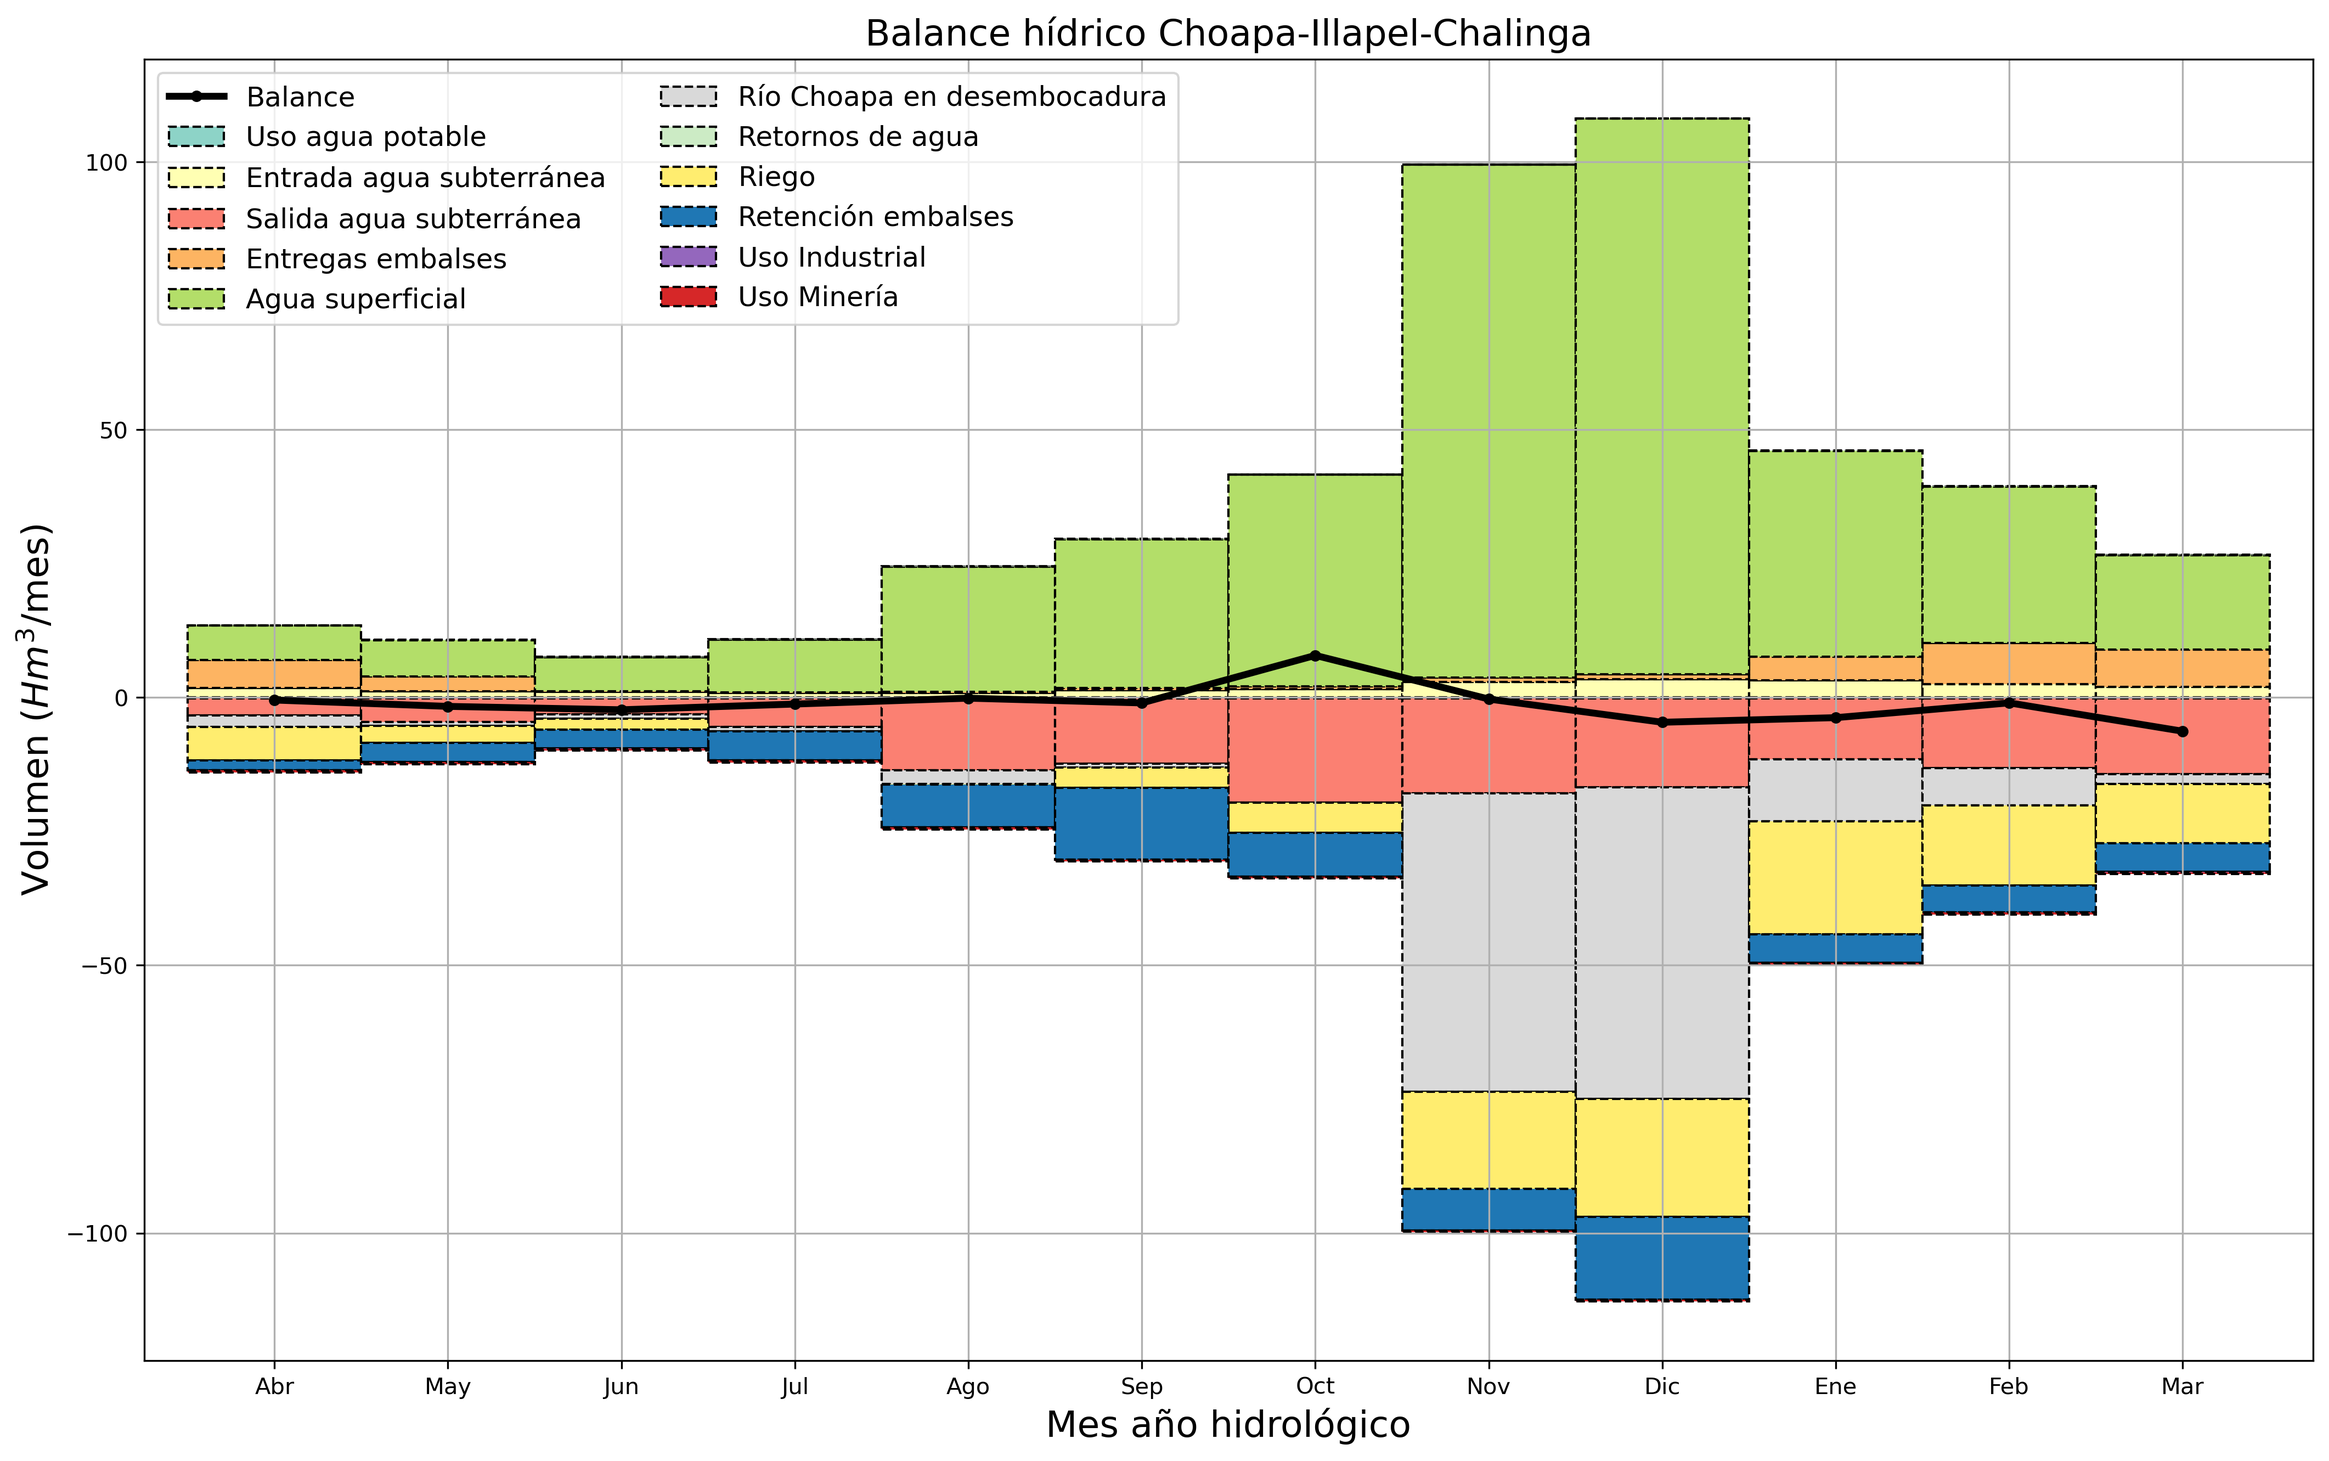
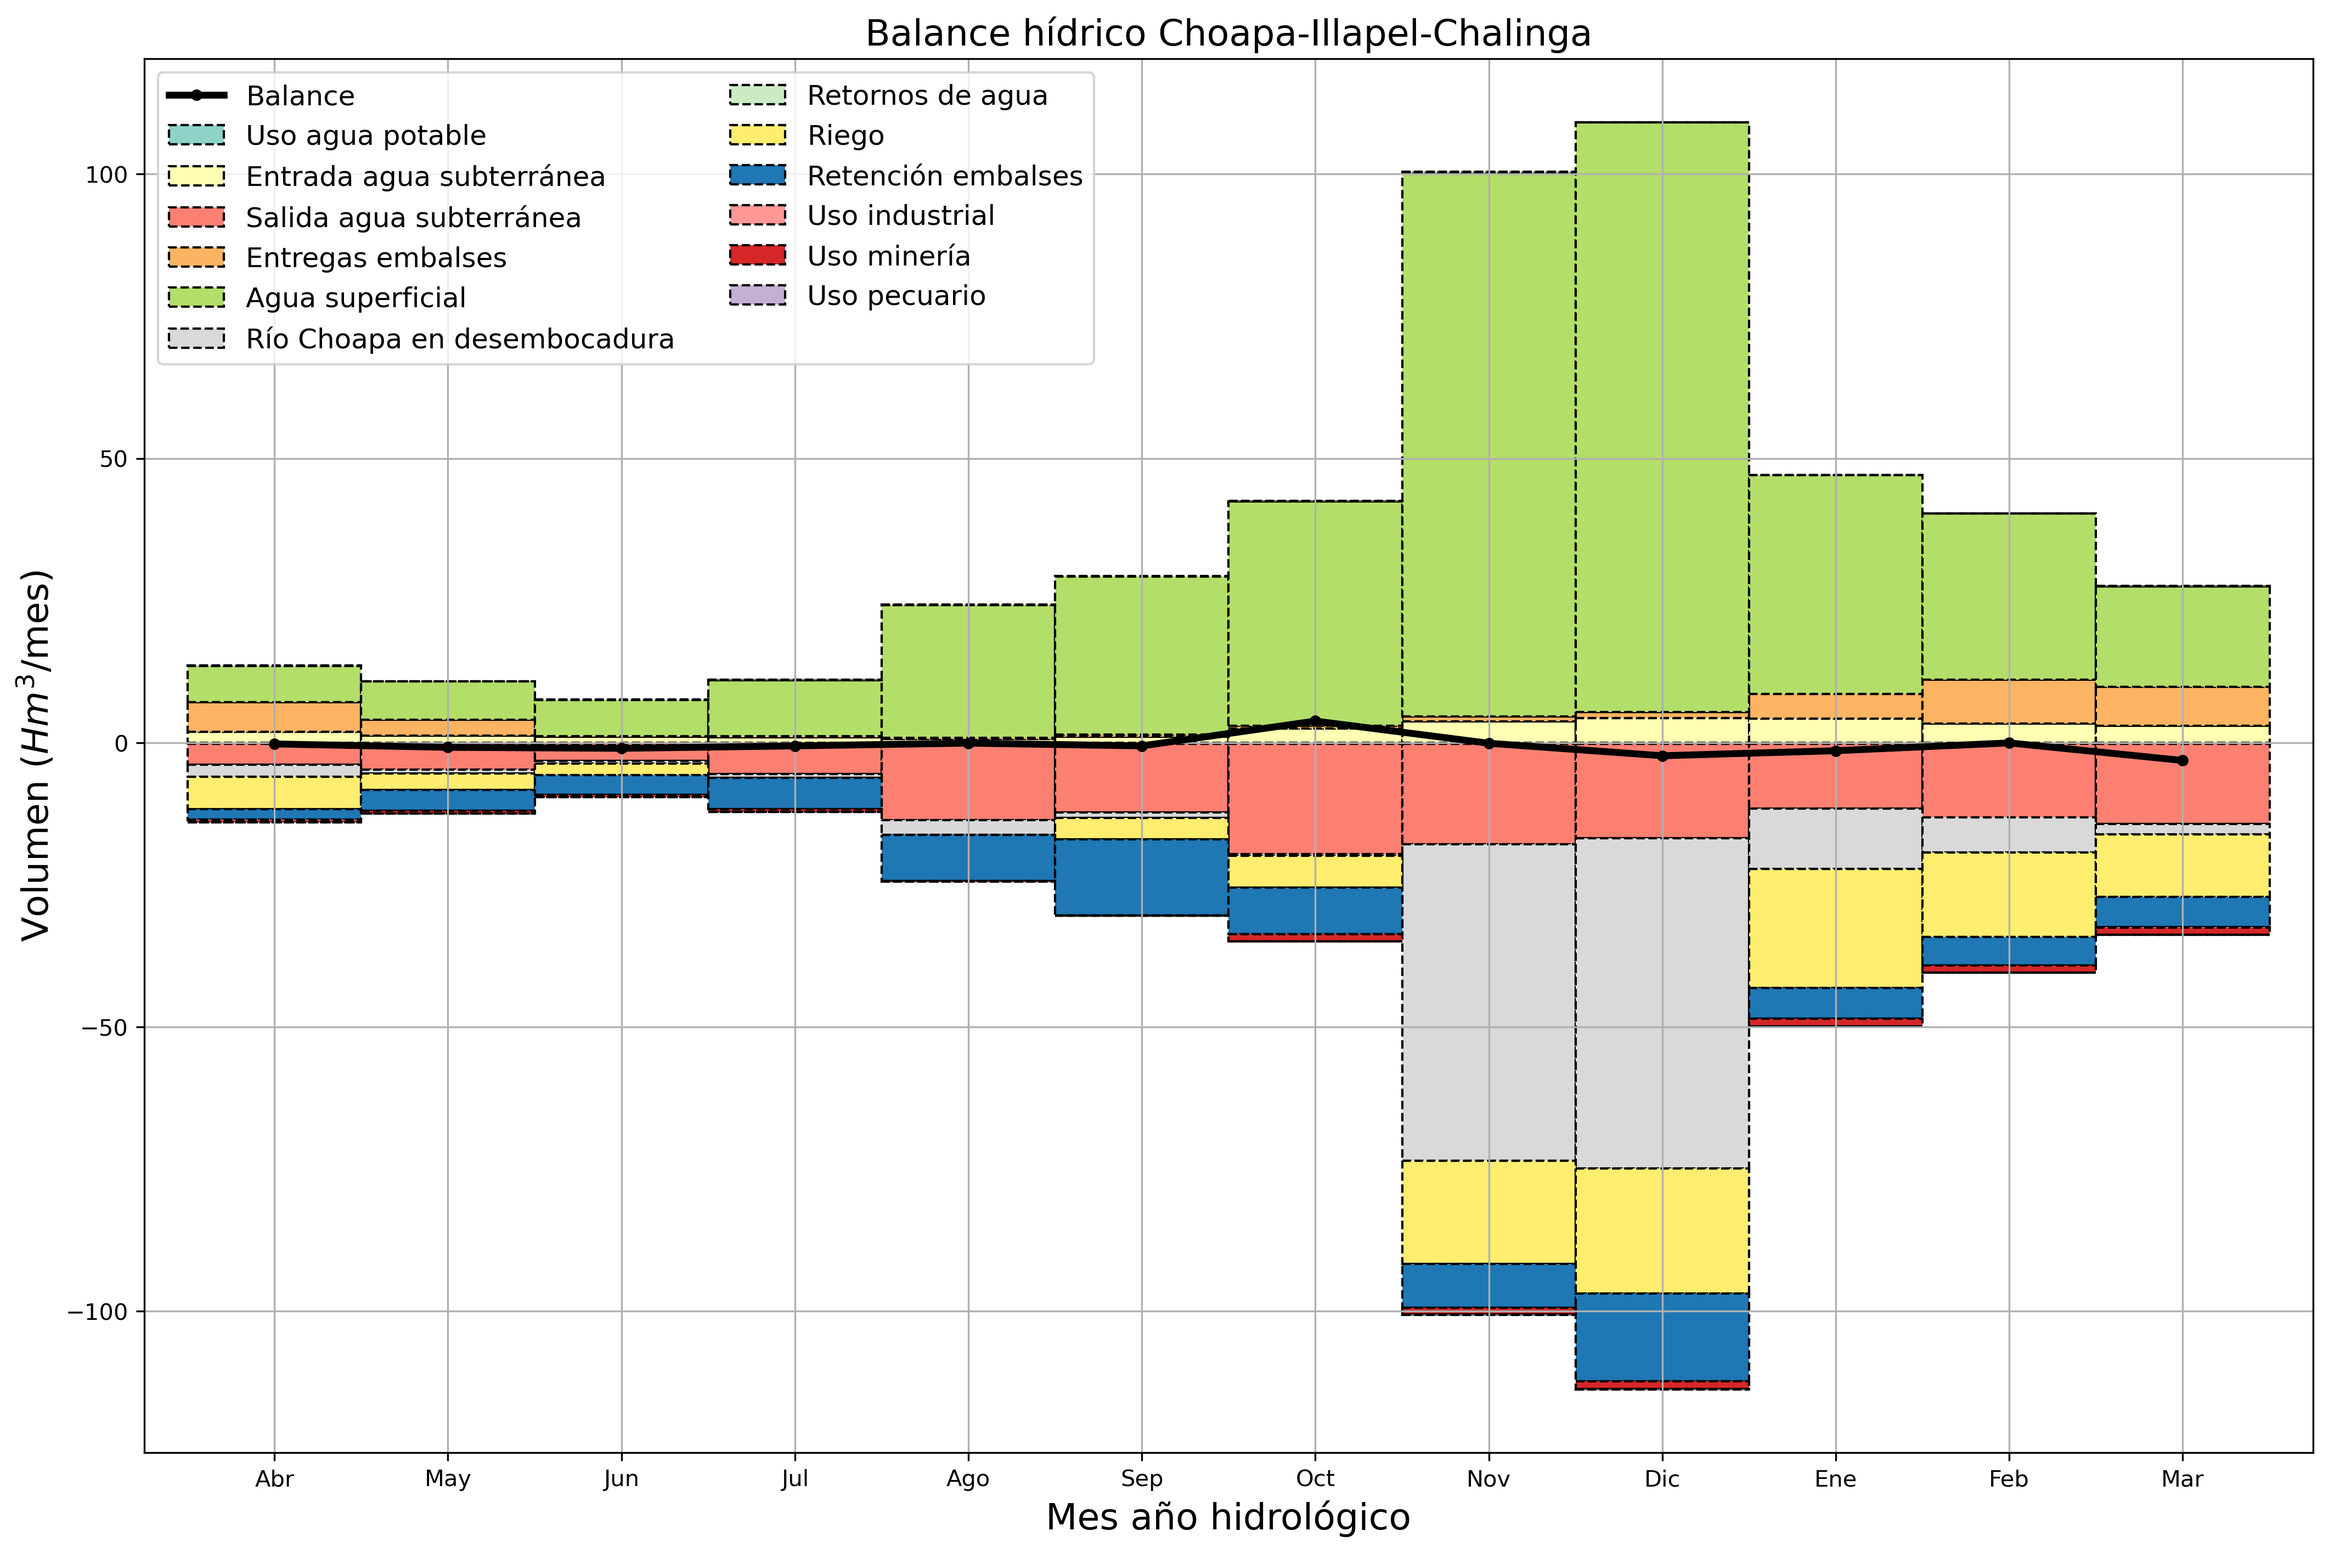
add: final plots

diff --git a/src/balanceLimari.py b/src/balanceLimari.py
@@ -584,7 +584,10 @@ def main():
         balance=balance.groupby(lambda x:x, axis=1).sum()
 
         balance.columns=['Uso agua potable','Entrada agua subterránea',
-                        'Salida agua subterránea','Entregas embalses',
+                        'Salida agua subterránea','Uso industrial',
+                        'Uso minería',
+                        'Uso pecuario',
+                        'Entregas embalses',
                         'Agua superficial',
                         'Río Limarí en desembocadura',
                         'Retornos de agua','Riego','sr']
@@ -595,13 +598,33 @@ def main():
         balance['Salida agua subterránea']=balance['Salida agua subterránea']+balance['Entrada agua subterránea']
         balance['Entrada agua subterránea']=0*balance['Entrada agua subterránea']
 
+        cols=['Uso agua potable', 'Entrada agua subterránea',
+    'Salida agua subterránea','Entregas embalses',
+    'Agua superficial','Río Limarí en desembocadura',
+    'Retornos de agua', 'Riego','Uso industrial',
+                     'Uso minería','Uso pecuario']
+        balance=balance[cols]
         plt.close('all')
+        from matplotlib.pyplot import cm
+        import numpy as np
+        color = [np.array([0.55294118, 0.82745098, 0.78039216, 1.        ]),
+        np.array([1.        , 1.        , 0.70196078, 1.        ]),
+        np.array([0.98431373, 0.50196078, 0.44705882, 1.        ]),
+        np.array([0.99215686, 0.70588235, 0.38431373, 1.        ]),
+        np.array([0.70196078, 0.87058824, 0.41176471, 1.        ]),
+        np.array([0.85098039, 0.85098039, 0.85098039, 1.        ]),
+        np.array([0.8       , 0.92156863, 0.77254902, 1.        ]),
+        np.array([1.        , 0.92941176, 0.43529412, 1.        ])]
+        color2 = list(cm.tab20(np.linspace(0, 1, len(balance.columns)+2)))
+        colores=color+[color2[0]]+[color2[5]]+[color2[4]]
+        test_keys = list(balance.columns)
+        colors = {test_keys[i]: colores[i] for i in range(len(colores))}
         fig, axes = plt.subplots(figsize = (17,11))
-        sumas=pd.DataFrame(balance.sum(axis=1))
+        sumas=pd.DataFrame(balance.sum(axis=1))*0.5
         balance.index=sumas.index
         balance.plot(stacked=True, kind = 'bar', grid=True, ax = axes,
-                    legend=False,rot=0,colormap='Set3',
-                    edgecolor='k', width=1, linestyle="--")
+                 legend=False,rot=0,color=colors,
+                 edgecolor='k', width=1, linestyle="--")
 
         sumas.plot(ax=axes, kind = 'line', grid=True, color = 'black',
                 label = 'Total', linewidth = 3, markersize = 4,

diff --git a/src/balanceChoapa2.py b/src/balanceChoapa2.py
@@ -171,9 +171,10 @@ def main():
         tl=TL(root)
         riego=riegoTL(tl)
         # retornoRio=returnRiver(root)
-        AP=tl[tl.columns[tl.columns.str.contains('to AP')]]*0
-        MIN=tl[tl.columns[tl.columns.str.contains('to MIN')]]*0
-        IND=tl[tl.columns[tl.columns.str.contains('to IND')]]*0
+        AP=tl[tl.columns[tl.columns.str.contains('to AP')]]
+        MIN=tl[tl.columns[tl.columns.str.contains('to MIN')]]
+        IND=tl[tl.columns[tl.columns.str.contains('to IND')]]
+        PEC=tl[tl.columns[tl.columns.str.contains('to PEC')]]
         qDesemb=pd.DataFrame(q.iloc[:,-1])
 
         GWin,GWout=GWChalinga(root)
@@ -197,6 +198,7 @@ def main():
 
             df['GWout']=dfTocol(GWout.multiply(-1))+dfTocol(riego.multiply(1))
             df['riego']=ineficiencia*dfTocol(riego.multiply(-1))
+            df['PEC']=dfTocol(PEC.multiply(-1))
             df=df.apply(lambda x: x*df.index.daysinmonth.values)
             df=df.multiply(86400/1e6)
 
@@ -238,6 +240,7 @@ def main():
         AP=tl[tl.columns[tl.columns.str.contains('to AP')]]
         MIN=tl[tl.columns[tl.columns.str.contains('to MIN')]]
         IND=tl[tl.columns[tl.columns.str.contains('to IND')]]
+        PEC=tl[tl.columns[tl.columns.str.contains('to PEC')]]
         qDesemb=pd.DataFrame(q.iloc[:,-1])
 
         GWin,GWout=GWChoapa(root)
@@ -270,6 +273,7 @@ def main():
             df['IND']=dfTocol(IND.multiply(-1))
             df['MIN']=dfTocol(MIN.multiply(-1))
             df['AP']=dfTocol(AP.multiply(-1))
+            df['PEC']=dfTocol(PEC.multiply(-1))
 
             df=df.apply(lambda x: x*df.index.daysinmonth.values)
             df=df.multiply(86400/1e6)
@@ -310,9 +314,9 @@ def main():
 
         tl=TL(root)
         riego=riegoTL(tl)
-        AP=tl[tl.columns[tl.columns.str.contains('to AP')]]*0
-        MIN=tl[tl.columns[tl.columns.str.contains('to MIN')]]*0
-        IND=tl[tl.columns[tl.columns.str.contains('to IND')]]*0
+        AP=tl[tl.columns[tl.columns.str.contains('to AP')]]
+        MIN=tl[tl.columns[tl.columns.str.contains('to MIN')]]
+        IND=tl[tl.columns[tl.columns.str.contains('to IND')]]
         qDesemb=pd.DataFrame(q.iloc[:,-1])
 
         GWin,GWout=GWChoapa(root)
